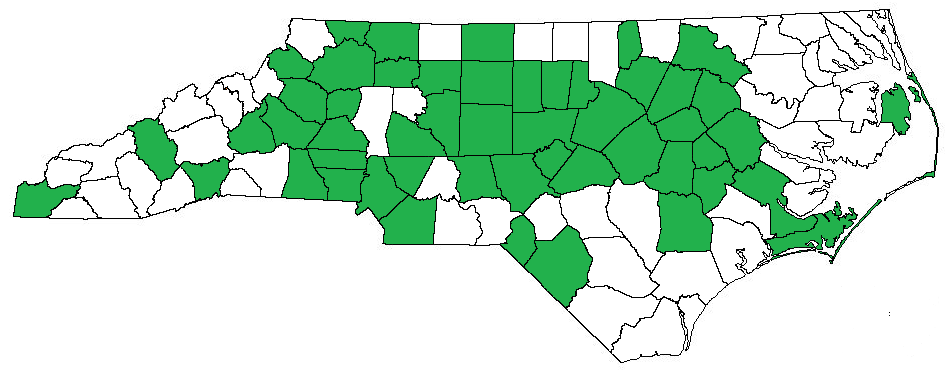
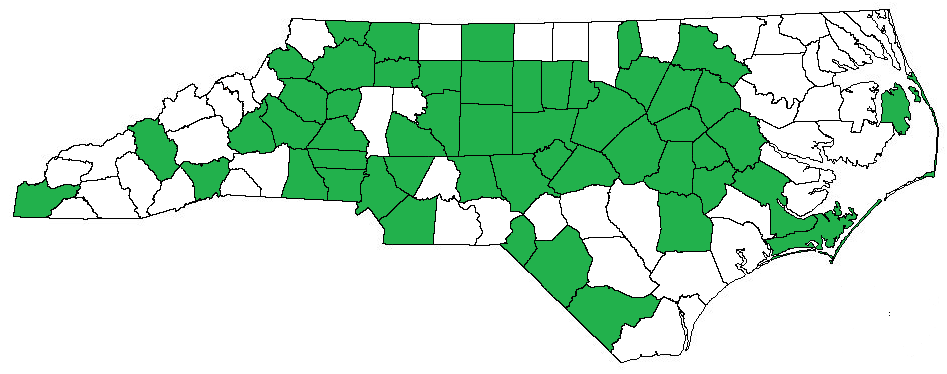
bbq 6/12/22

Changed region(s): [[0.5818, 0.7647, 0.7043, 0.9412]]

diff --git a/bbq/bbq-pics.html b/bbq/bbq-pics.html
@@ -210,6 +210,28 @@
 
 
 <br>
+<p><b>Columbus County</b></p>
+<p>Williamson's Bar-B-Que - Chadbourn</p>
+<p><a id="Williamsons"></p>
+<center><img id="image114" img-src="https://s3.us-east-1.wasabisys.com/cwclaib-website/NC-State-Page/bbq/Williamson, Chadbourn/20220612_134952.jpg" width="800"></img></center>
+<center><button type="button"
+        onclick="show( image114, this )" id="btnID">
+        Show Image
+</button></center>
+<center><img id="image115" img-src="https://s3.us-east-1.wasabisys.com/cwclaib-website/NC-State-Page/bbq/Williamson, Chadbourn/20220612_135303.jpg" width="800"></img></center>
+<center><button type="button"
+        onclick="show( image115, this )" id="btnID">
+        Show Image
+</button></center>
+<center><img id="image116" img-src="https://s3.us-east-1.wasabisys.com/cwclaib-website/NC-State-Page/bbq/Williamson, Chadbourn/20220612_141129.jpg" width="800"></img></center>
+<center><button type="button"
+        onclick="show( image116, this )" id="btnID">
+        Show Image
+</button></center>
+
+
+
+<br>
 <p><b>Craven County</b></p>
 <p>Friday's 1890 Seafood &amp BBQ - New Bern</p>
 <p><a id="Fridays"></p>

diff --git a/bbq/index.html b/bbq/index.html
@@ -52,10 +52,10 @@ Both use vinegar as their base for the sauce, often with red pepper (among other
 <br>
 <center>
 	<h2>Current County Counter</h2>
-	<h3><span style="color:red">51</span> / 100</h3>
-	<h3>71 different in-state BBQ joints</h3>
+	<h3><span style="color:red">52</span> / 100</h3>
+	<h3>72 different in-state BBQ joints</h3>
 	<h3>2 annual BBQ events</h3>
-	<p>(last updated 6/11/2022)</p>
+	<p>(last updated 6/12/2022)</p>
 </center>
 <br>
 
@@ -113,6 +113,11 @@ Both use vinegar as their base for the sauce, often with red pepper (among other
 <p><b>Cleveland County</b></p>
 <ul>
 	<li>Red Bridge's BBQ - Shelby - 12/14/2019 and 9/9/2021 - <i><span class="ncbsbbq">NCBS BBQ Trail</span></i>; <i><span class="ncbsbbq">True 'Cue NC</span></i> - <a href="bbq-pics.html#Red-Bridge">pictures</a></li>
+</ul>
+<br>
+<p><b>Columbus County</b></p>
+<ul>
+	<li>Williamson's Bar-B-Que - Chadbourn - 6/12/2022 - <a href="bbq-pics.html#Williamsons">pictures</a></li>
 </ul>
 <br>
 <p><b>Craven County</b></p>
